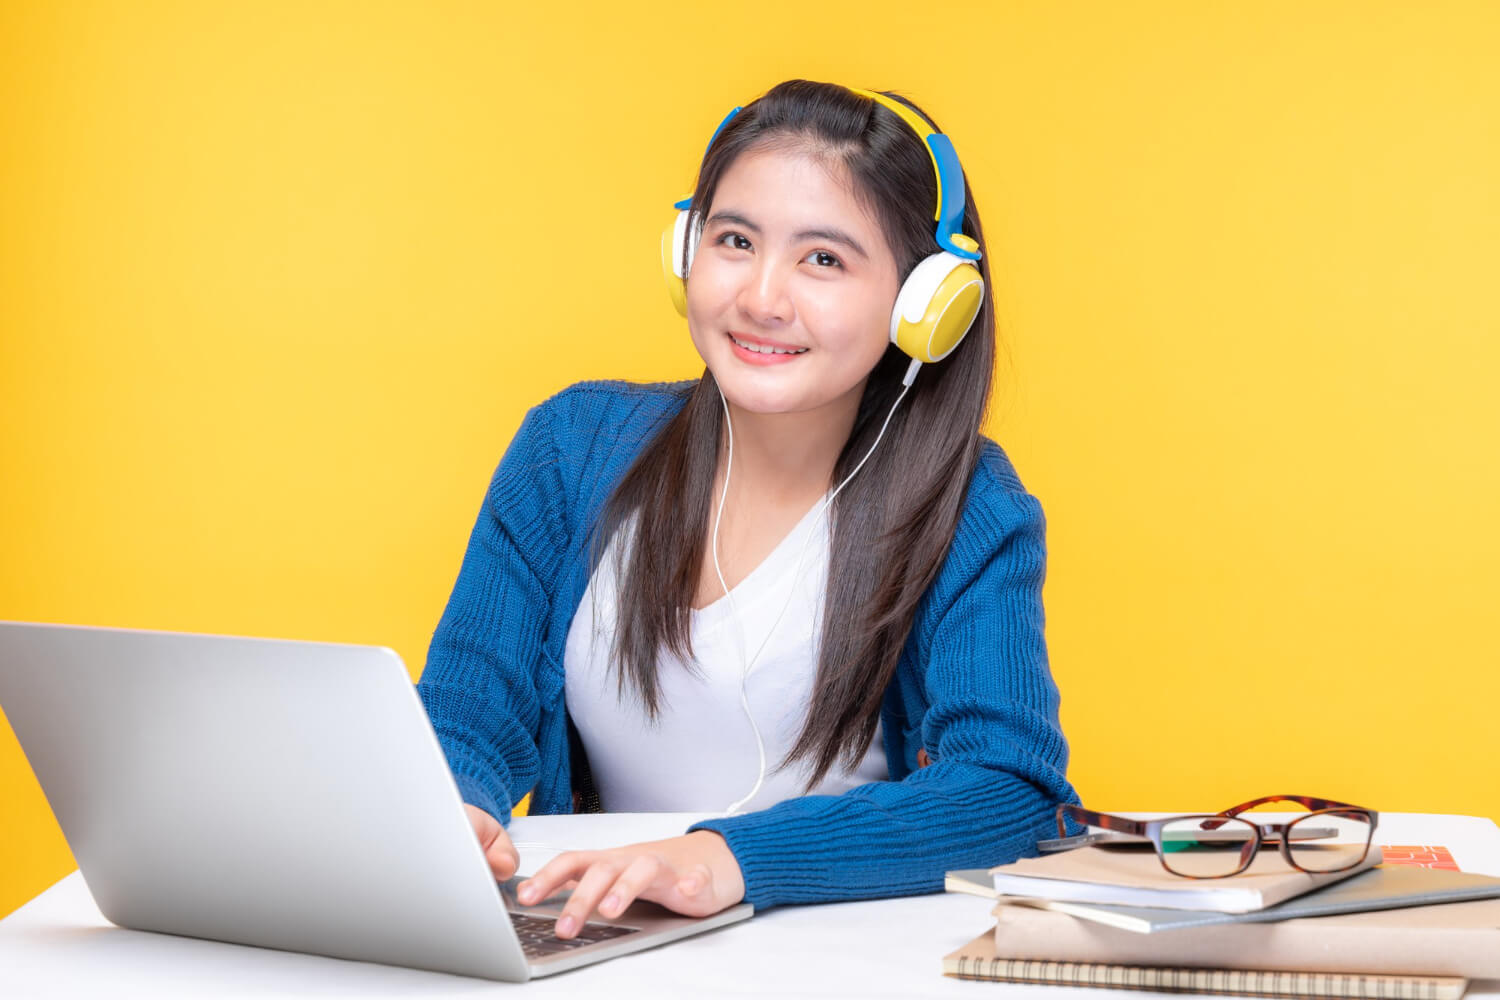
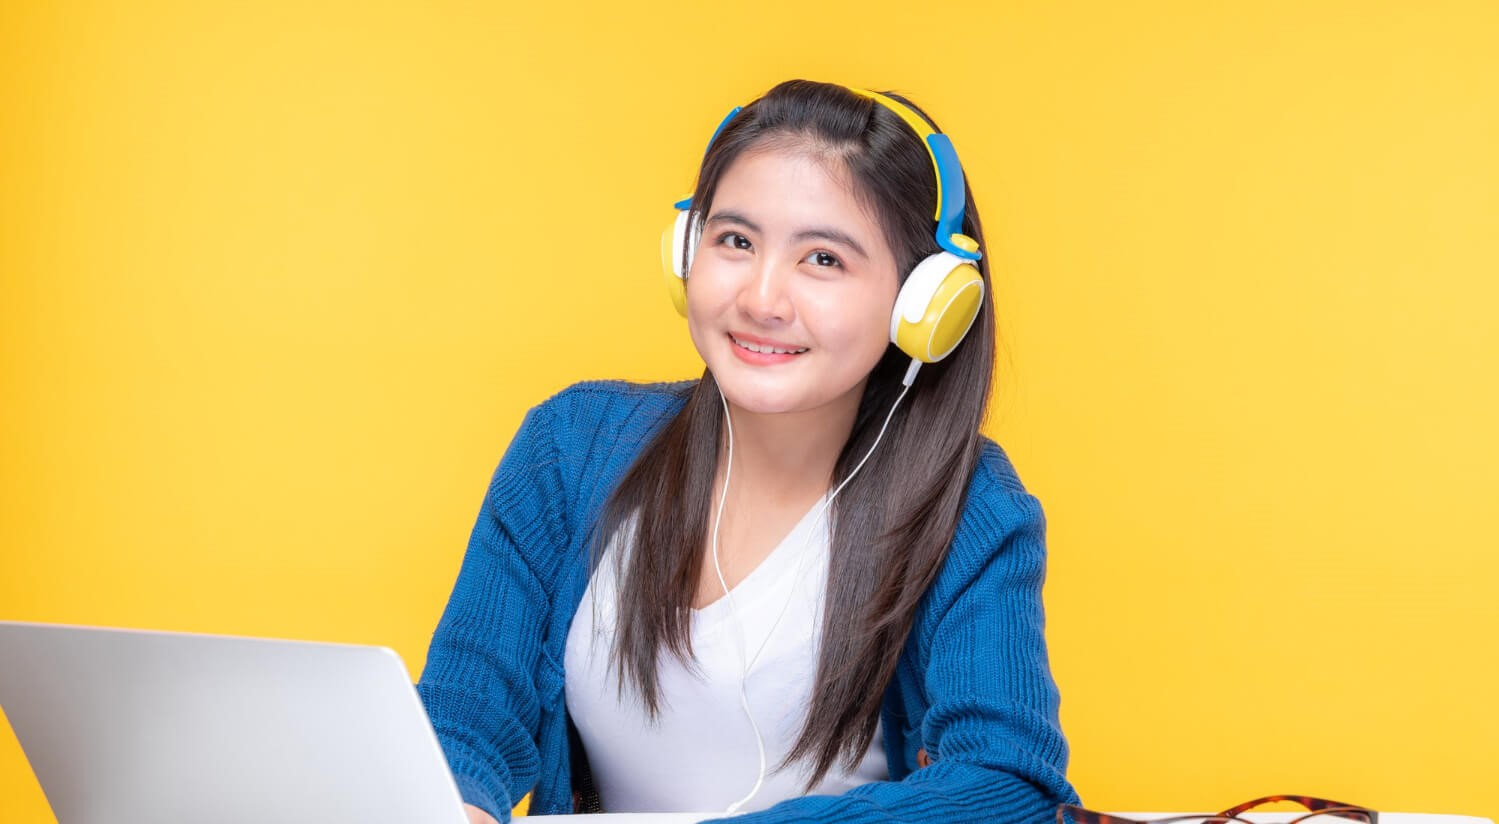
page complte

diff --git a/index.html b/index.html
@@ -3,7 +3,7 @@
   <head>
     <meta charset="utf-8">
     <meta name="viewport" content="width=device-width, initial-scale=1">
-    <title>Good luck school</title>
+    <title>Good luck edu</title>
     <link href="https://cdn.jsdelivr.net/npm/bootstrap@5.2.0/dist/css/bootstrap.min.css" rel="stylesheet" integrity="sha384-gH2yIJqKdNHPEq0n4Mqa/HGKIhSkIHeL5AyhkYV8i59U5AR6csBvApHHNl/vI1Bx" crossorigin="anonymous">
     <!-- style -->
     <link rel="stylesheet" href="style.css">
@@ -41,7 +41,7 @@
                       </li>
                     </ul>
                     <form class="d-flex" role="search">
-                        <button class="btn btn-outline-success" type="submit">Search</button>
+                        <button class="btn btn-outline-success" type="submit">Register</button>
                     </form>
                   </div>
                 </div>
@@ -53,7 +53,7 @@
             <div id="carouselExampleCaptions" class="carousel slide" data-bs-ride="false">
                 <div class="carousel-inner bnr-bg">
                   <div class="carousel-item active">
-                    <img src="images/cover/cover-1.png" class=" w-100 bnr-bg" alt="...">
+                    <img src="images/cover/cover-1.png" class="img-fluid bnr-bg" alt="...">
                     <div class="carousel-caption d-flex flex-column justify-content-center align-items-center h-75">
                       <h1 class="fnt-clr txt-siz">Get Started Digital Learning</h1>
                       <p>It is a long established fact that a reader will be distracted by the readable content of a page when looking at its layout.</p><br>
@@ -61,7 +61,7 @@
                     </div>
                   </div>
                   <div class="carousel-item">
-                    <img src="images/cover/cover-2.jpg" class="d-block w-100 bnr-bg" alt="...">
+                    <img src="images/cover/cover-2.jpg" class="d-block img-fluid bnr-bg" alt="...">
                     <div class="carousel-caption d-md-block  d-flex flex-column justify-content-center align-items-center h-75">
                       <h1 class="fnt-clr txt-siz">Get Started Digital Learning</h1>
                       <p>It is a long established fact that a reader will be distracted by the readable content of a page when looking at its layout.</p><br>
@@ -69,7 +69,7 @@
                     </div>
                   </div>
                   <div class="carousel-item">
-                    <img src="images/cover/cover-3.jpg" class="d-block w-100 bnr-bg" alt="...">
+                    <img src="images/cover/cover-3.jpg" class="d-block img-fluid bnr-bg" alt="...">
                     <div class="carousel-caption d-md-block  d-flex flex-column justify-content-center align-items-center h-75">
                       <h1 class="fnt-clr txt-siz">Get Started Digital Learning</h1>
                       <p>It is a long established fact that a reader will be distracted by the readable content of a page when looking at its layout.</p><br>
@@ -93,7 +93,7 @@
       <div class="w-50 mx-auto">
         <div class="text-center">
           <h2 class="fw-bold">Discover Your Populer Courses</h2>
-          <p>Lorem ipsum dolor sit amet consectetur adipisicing elit. Eligendi, perspiciatis.</p>
+          <p>It is a long established fact that a reader will be distracted by the readable content of a page when looking at its layout.</p>
         </div>
       </div>
       <section class="mt-5 pt-5">
@@ -191,13 +191,13 @@
       <!-- card end -->
       <!-- join from start -->
       <section class="mt-5 pt-5">
-        <div class="join-bnr bg-primary rounded-3">
-          <div class="d-flex">
-            <div class="text-light">
+        <div class="join-bnr bg-primary rounded-3 ">
+          <div class="d-flex flex-column flex-lg-row">
+            <div class="text-light w-50 text-lg-start">
               <h1>Ready to join?</h1>
-              <p>Lorem ipsum dolor sit amet consectetur adipisicing elit. In, enim!</p>
+              <p>It is a long established fact that a reader will be distracted by the readable content of a page when looking at its layout.</p>
             </div>
-            <div class="join-btn ">
+            <div class="join-btn">
               <button type="button" class="btn btn-light fw-bold text-primary"  data-bs-toggle="modal" data-bs-target="#exampleModal">Register Now</button>
             </div>
           </div>
@@ -207,11 +207,23 @@
           <div class="modal-dialog">
             <div class="modal-content">
               <div class="modal-header">
-                <h5 class="modal-title" id="exampleModalLabel">Modal title</h5>
+                <h5 class="modal-title" id="exampleModalLabel">Join Here</h5>
                 <button type="button" class="btn-close" data-bs-dismiss="modal" aria-label="Close"></button>
               </div>
               <div class="modal-body">
-                
+                <form class="row g-3">
+                  <div class="col-auto">
+                    <label for="exampleFormControlInput1" class="form-label">Email</label>
+                    <input type="email" class="form-control" id="exampleFormControlInput1" placeholder="name@example.com">
+                  </div>
+                  <div class="col-auto">
+                    <label for="inputPassword2" class="form-label">Password</label>
+                    <input type="password" class="form-control" id="inputPassword2" placeholder="Password">
+                  </div>
+                  <div class="col-auto">
+                    <button type="submit" class="btn btn-primary mb-3">Confirm identity</button>
+                  </div>
+                </form>
               </div>
               <div class="modal-footer">
                 <button type="button" class="btn btn-secondary" data-bs-dismiss="modal">Close</button>
@@ -269,6 +281,9 @@
             </div>
           </div>
         </div>
+        <div class="text-center">
+          <br><button type="button" class="btn btn-primary">View All</button>
+        </div>
       </section>
 
       <!-- question part -->
@@ -276,7 +291,7 @@
         <div class="w-75 mx-auto">
           <div class=" text-center">
             <h2 class="fw-bold">Frequently Asked Questions</h2>
-            <p>Lorem ipsum dolor sit amet consectetur, adipisicing elit. Repellendus, distinctio.</p>
+            <p>It is a long established fact that a reader will be distracted by the readable content of a page when looking at its layout.</p>
           </div>
           <div class="mt-5">
             <div class="accordion accordion-flush" id="accordionFlushExample">
@@ -326,7 +341,7 @@
       </section>
       <!-- question part end -->
       <!-- companies name start -->
-      <section class="mt-5 pt-3 mb-5 d-none d-md-block d-lg-block">
+      <section class="mt-5 pt-3 mb-5 d-none d-md-none d-lg-block">
         <h2 class="text-center fw-bold">Trusted by over 800+ companies</h2>
         <div class="comp mt-4">
           <img src="images/company/company-1.png" alt="">

diff --git a/style.css b/style.css
@@ -9,12 +9,12 @@
     filter:brightness(60%)
 }
 .join-bnr{
-    padding: 7% ;
+    padding: 6% ;
     width: 100%;
     height: 100%;
 }
 .join-btn{
-    margin-top: 3%;
+    margin-top: 4%;
     margin-left: 35%;
 }
 .comp img{
@@ -33,19 +33,22 @@ footer i{
 /* small device */
 @media only screen and (max-width: 576px) {
     .bnr-txt{
-        width: 50%;
-        margin-bottom: -10%;
+        width: 80%;
+        margin-bottom: 20%;
     }
     .txt-siz{
         font-size: 170%;
+        
     }
+    
     
 }
 /* medium device */
 @media only screen and (min-width: 576px) and (max-width: 768px) {
     .bnr-txt{
         width: 50%;
-        border: 1px solid red;
-        
+    }
+    .txt-siz{
+        font-size: 170%;
     }
 }
